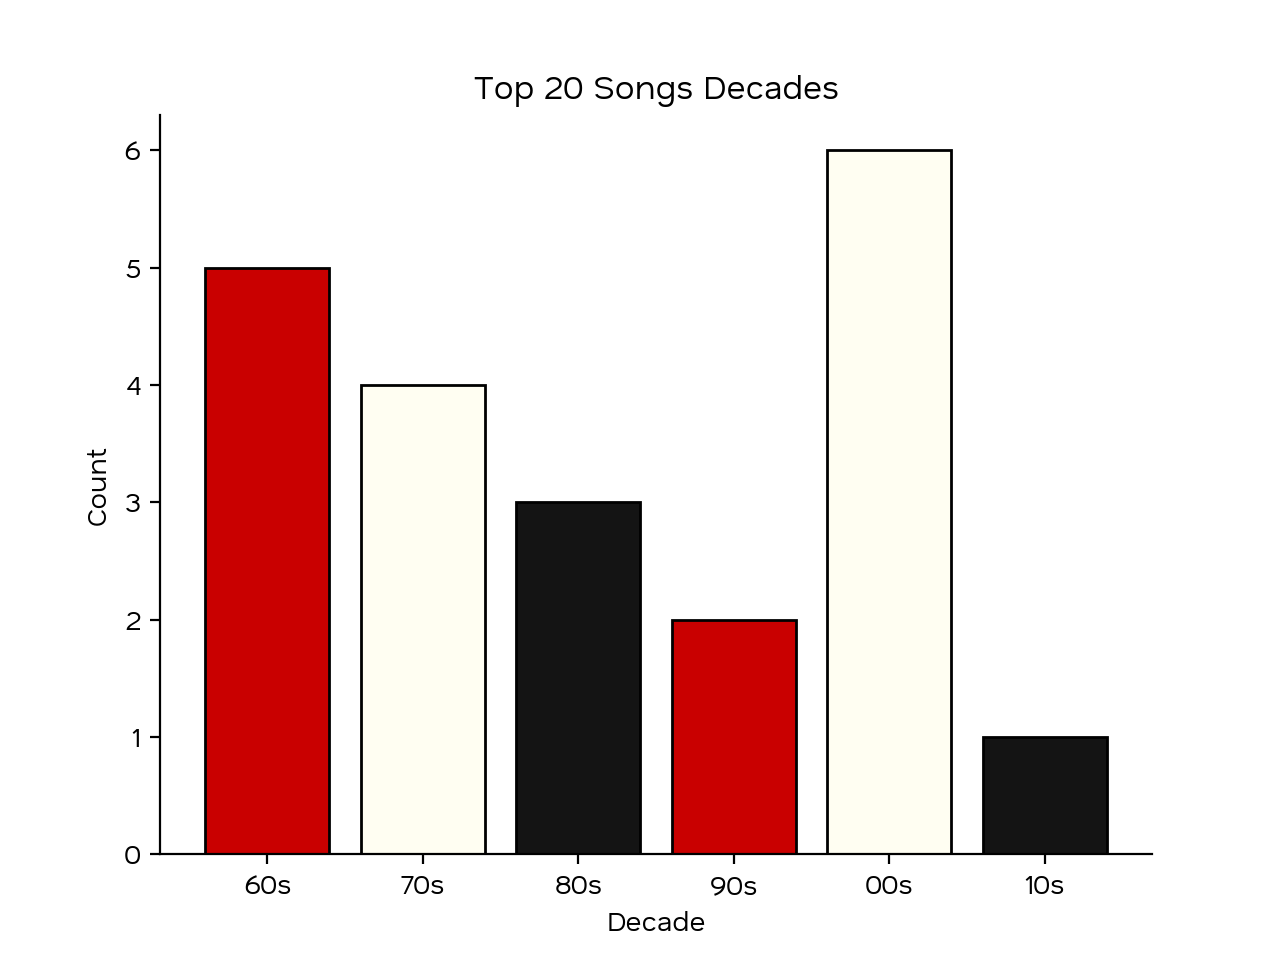
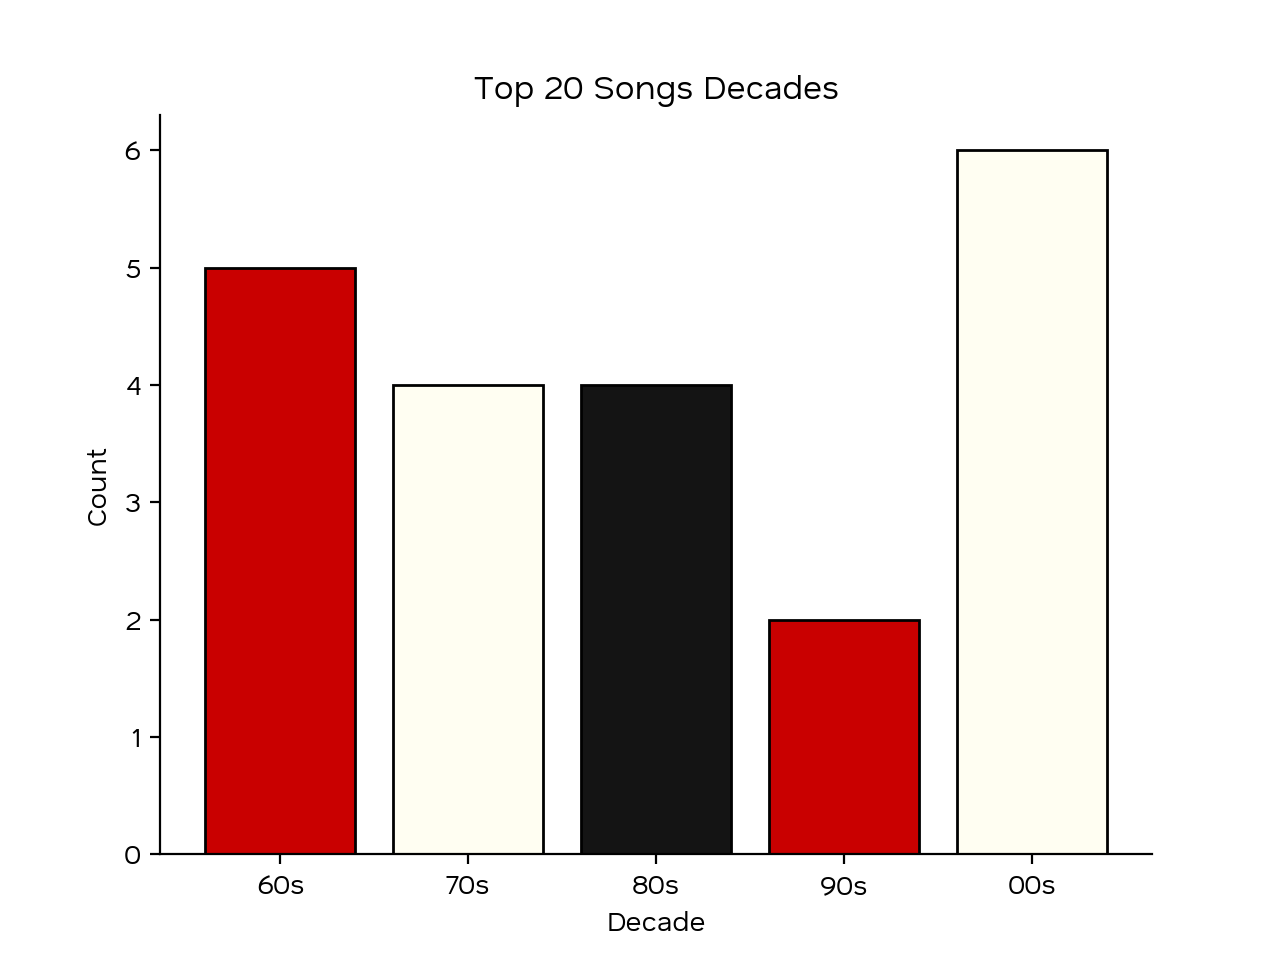
Change release year for Don't Start Me Talkin'

diff --git a/music-lists/top-20-songs.html b/music-lists/top-20-songs.html
@@ -835,9 +835,8 @@
                                     <div class="col">
                                         <div class="row">
                                             <p class="info-title mb-0">Release Year</p>
-                                            <p class="info-text"> 2019 <em>(Originally Recorded 1982)</em> </p>
+                                            <p class="info-text"> 1982 <em>(First released 2019)</em> </p>
                                         </div>
-                                        
                                     </div>
                                 </div>
                             </div>

diff --git a/scripts/song-data.py b/scripts/song-data.py
@@ -31,7 +31,7 @@ for point in data:
 
 
 # Count of decades
-countOfDecades = [0] * 6 # 0 is 1960s, 5 is 2010s
+countOfDecades = [0] * 5 # 0 is 1960s, 5 is 2010s
 sortedYears = sorted(years)
 
 decadeIndex = 0
@@ -47,7 +47,7 @@ import matplotlib.pyplot as plt
 from matplotlib import font_manager
 
 fig, ax = plt.subplots()
-decadeLabels = ["60s", "70s", "80s", "90s", "00s", "10s"]
+decadeLabels = ["60s", "70s", "80s", "90s", "00s"]
 
 colors = ["#c90000", "#fffef2", "#141414"] 
 
